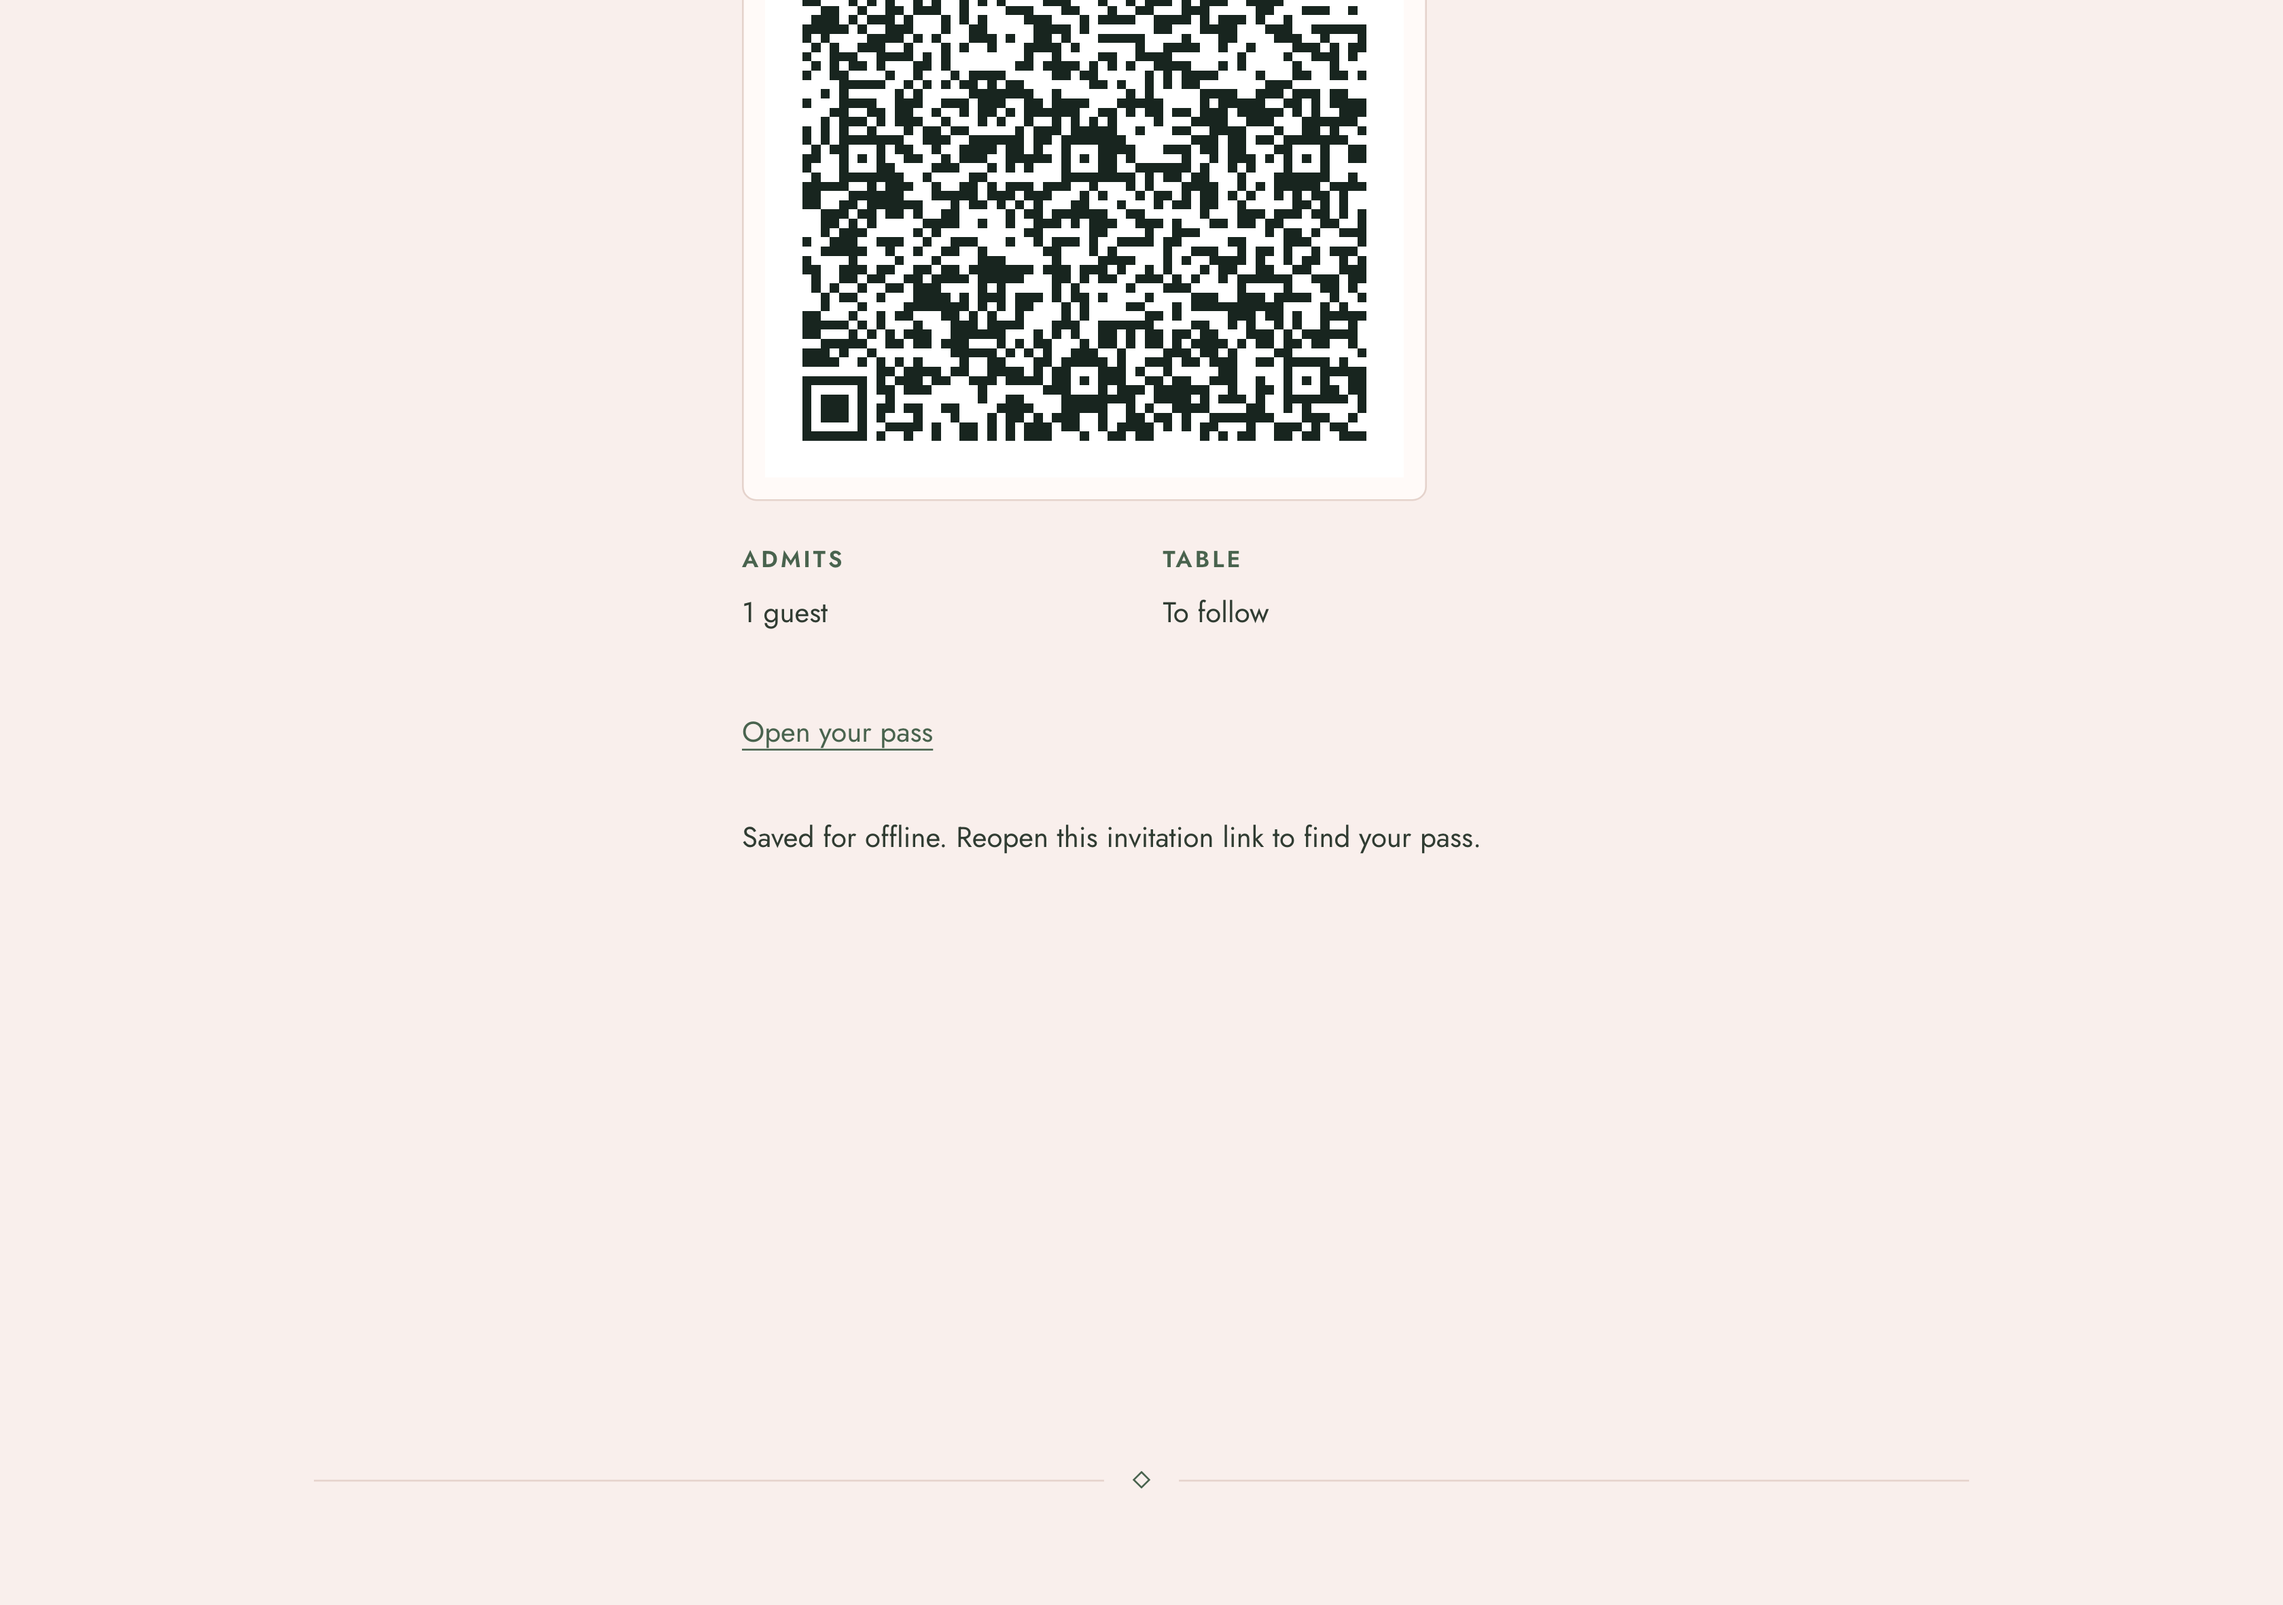
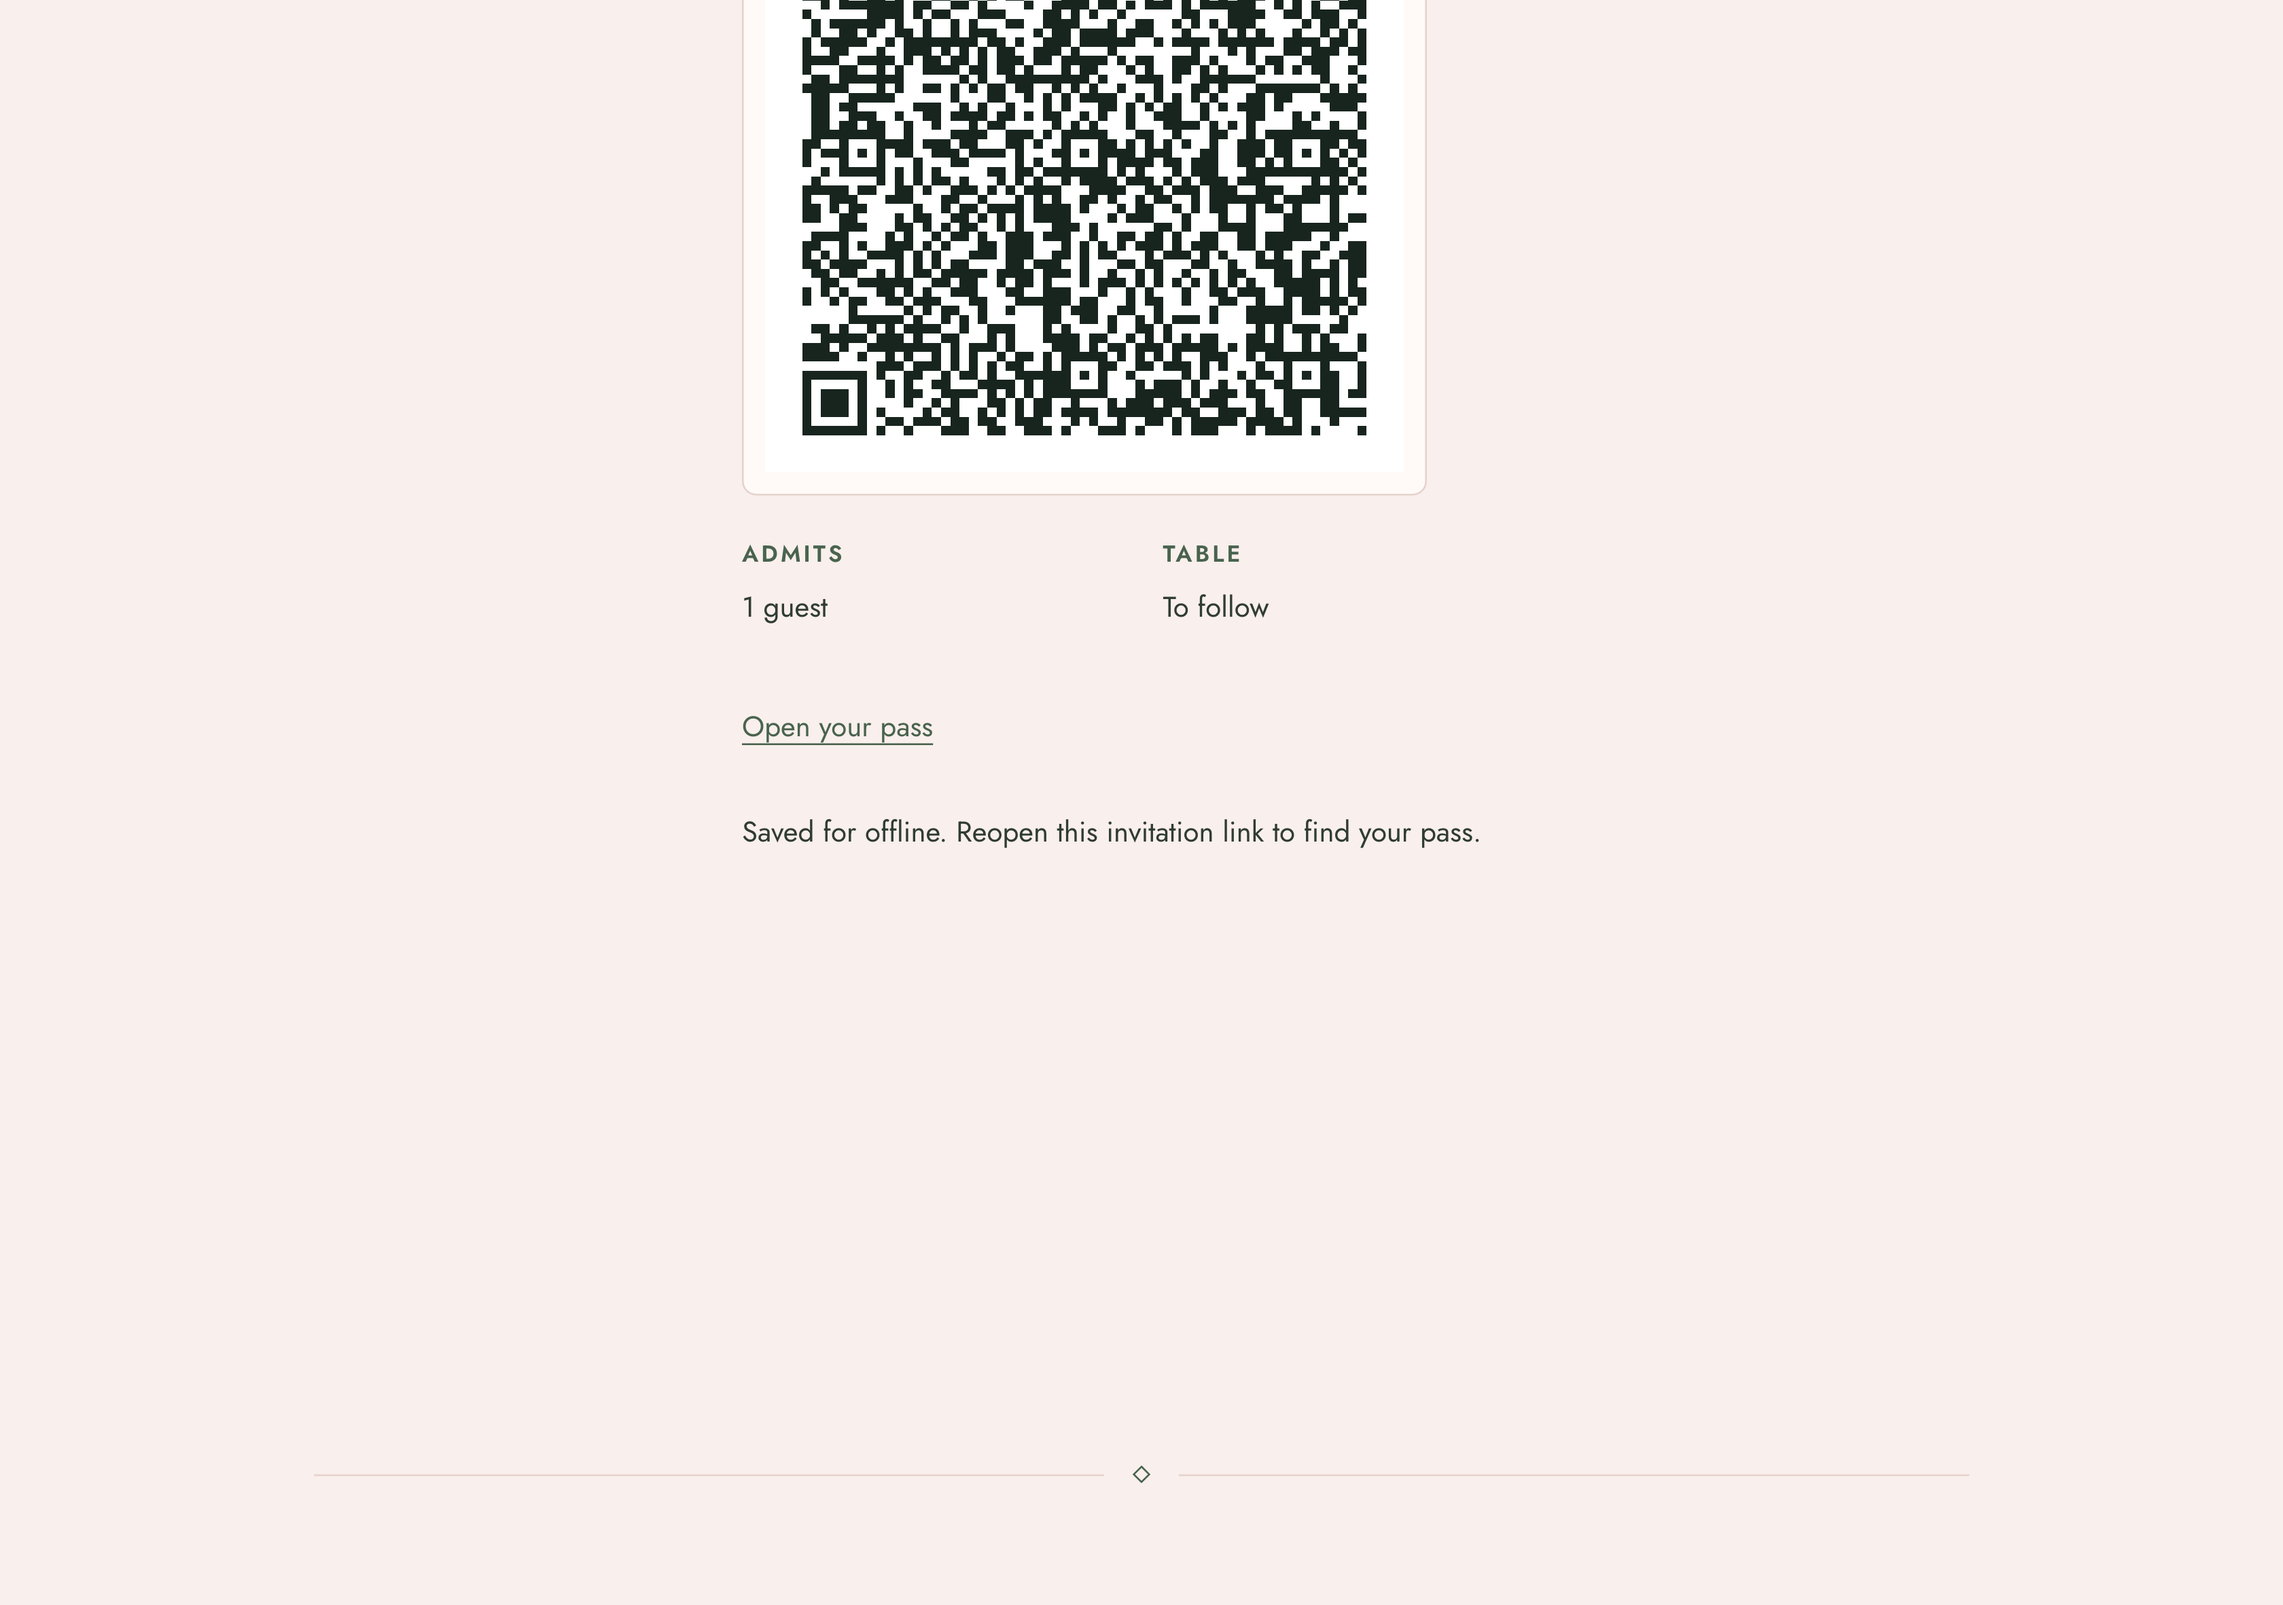
TICKET-107: record combined RSVP and offline regression evidence

diff --git a/docs/handoffs/TICKET-107.md b/docs/handoffs/TICKET-107.md
@@ -17,3 +17,7 @@ Persistent caffeinate session 52403 prevents sleep; stop when ending the impleme
 ## 2026-11-03 — approved sequential integration
 
 User explicitly approved merging PRs76/78/79/80 with renewed integration checks. PR76 merged as22b94bf0530d40c7a6ae7703fff25bd76a49e3c2. Integrating that base into PR78 produced one conflict in the personal invitation route: preserve both readParty-backed RSVP editing and QrPass saveOffline. No requirement dropped. Ticket resumed through CLI for this repair; full gate and both live feature flows will be rerun before merge. Release-blocking201 remains mandatory.
+
+## 2026-11-03 integration evidence
+
+Integrated develop22b94bf (approved PR76) in868de00, retaining both RSVP readParty details and automatic offline-pass saving. Quick verification and production build pass. Both real database flows run together with ephemeral signing keys: offline reload/revocation/eviction and RSVP tag-alongs/meals/persistence/tamper rejection pass (2tests,21.3s). All24 offline/online screenshots refreshed; release QA gates201/184 remain mandatory. The user explicitly authorized PR78's merge after renewed CI; no other merge authorization is implied. Full publication gate runs against this combined code before review/merge.

diff --git a/docs/plans/TICKET-107-pr.md b/docs/plans/TICKET-107-pr.md
@@ -49,3 +49,7 @@ Automated contrast, keyboard, reduced motion, layout, QR signature and performan
 # Harness changes, if any
 
 No hooks, skills, CI rules or guardrails changed. The isolated review runner generates signing keys only in memory and cleans up only the synthetic fixture IDs it creates.
+
+## 2026-11-03 integration evidence
+
+Integrated develop22b94bf (approved PR76) in868de00, retaining both RSVP readParty details and automatic offline-pass saving. Quick verification and production build pass. Both real database flows run together with ephemeral signing keys: offline reload/revocation/eviction and RSVP tag-alongs/meals/persistence/tamper rejection pass (2tests,21.3s). All24 offline/online screenshots refreshed; release QA gates201/184 remain mandatory. The user explicitly authorized PR78's merge after renewed CI; no other merge authorization is implied. Full publication gate runs against this combined code before review/merge.
